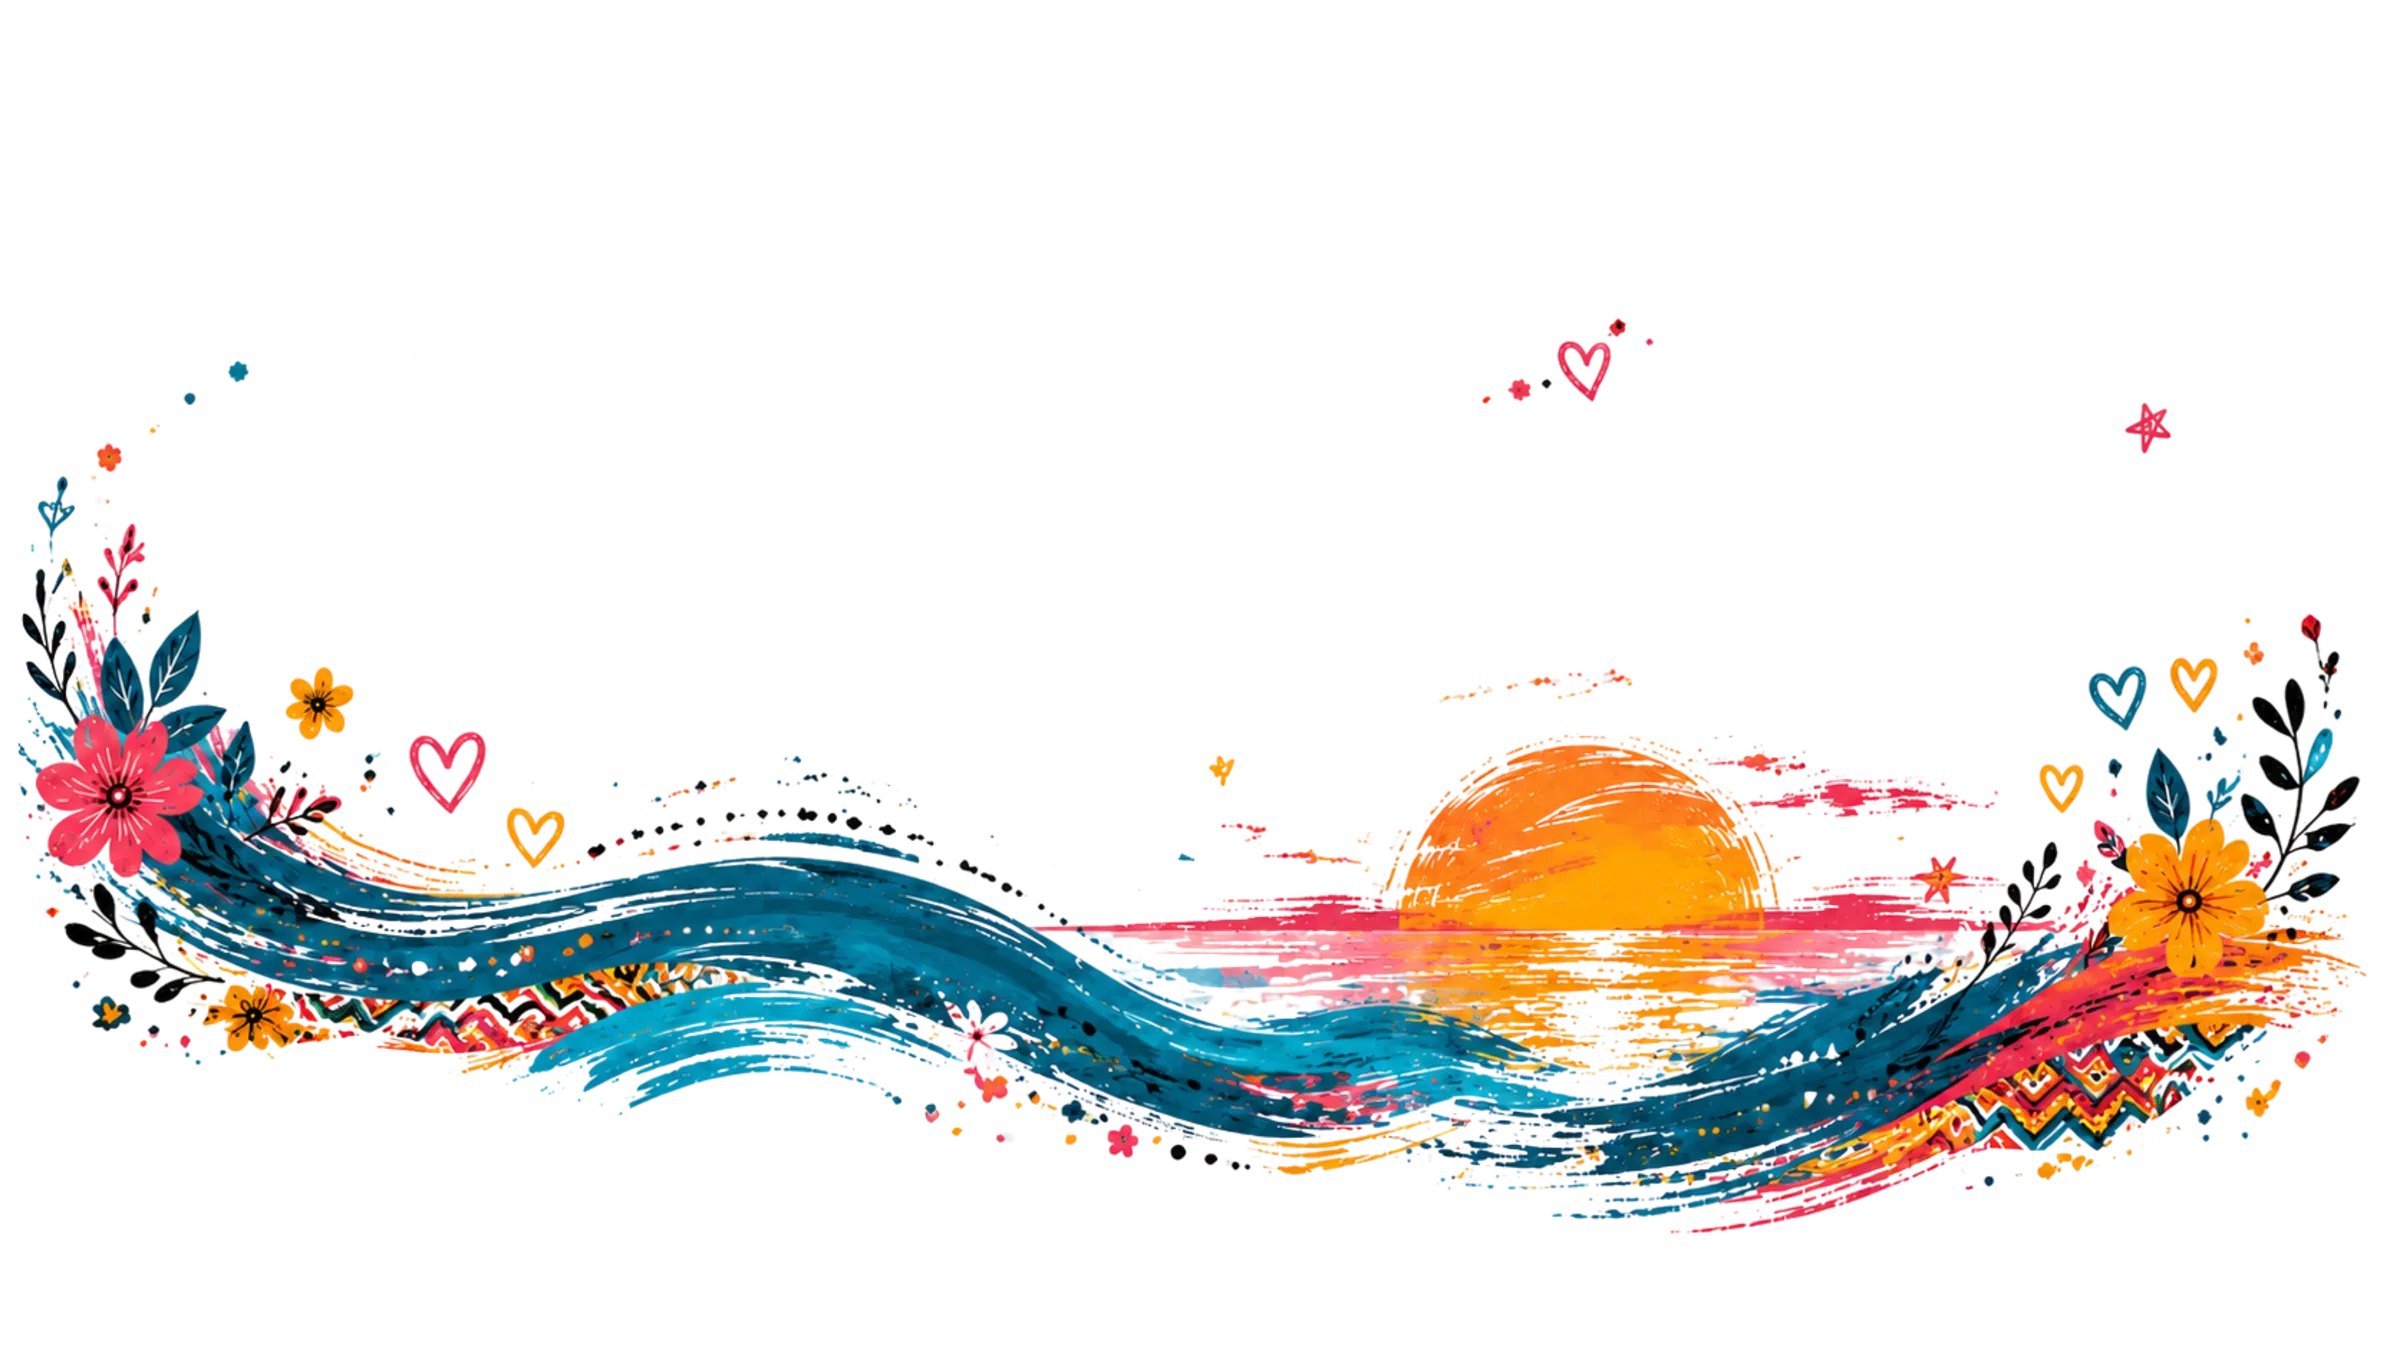
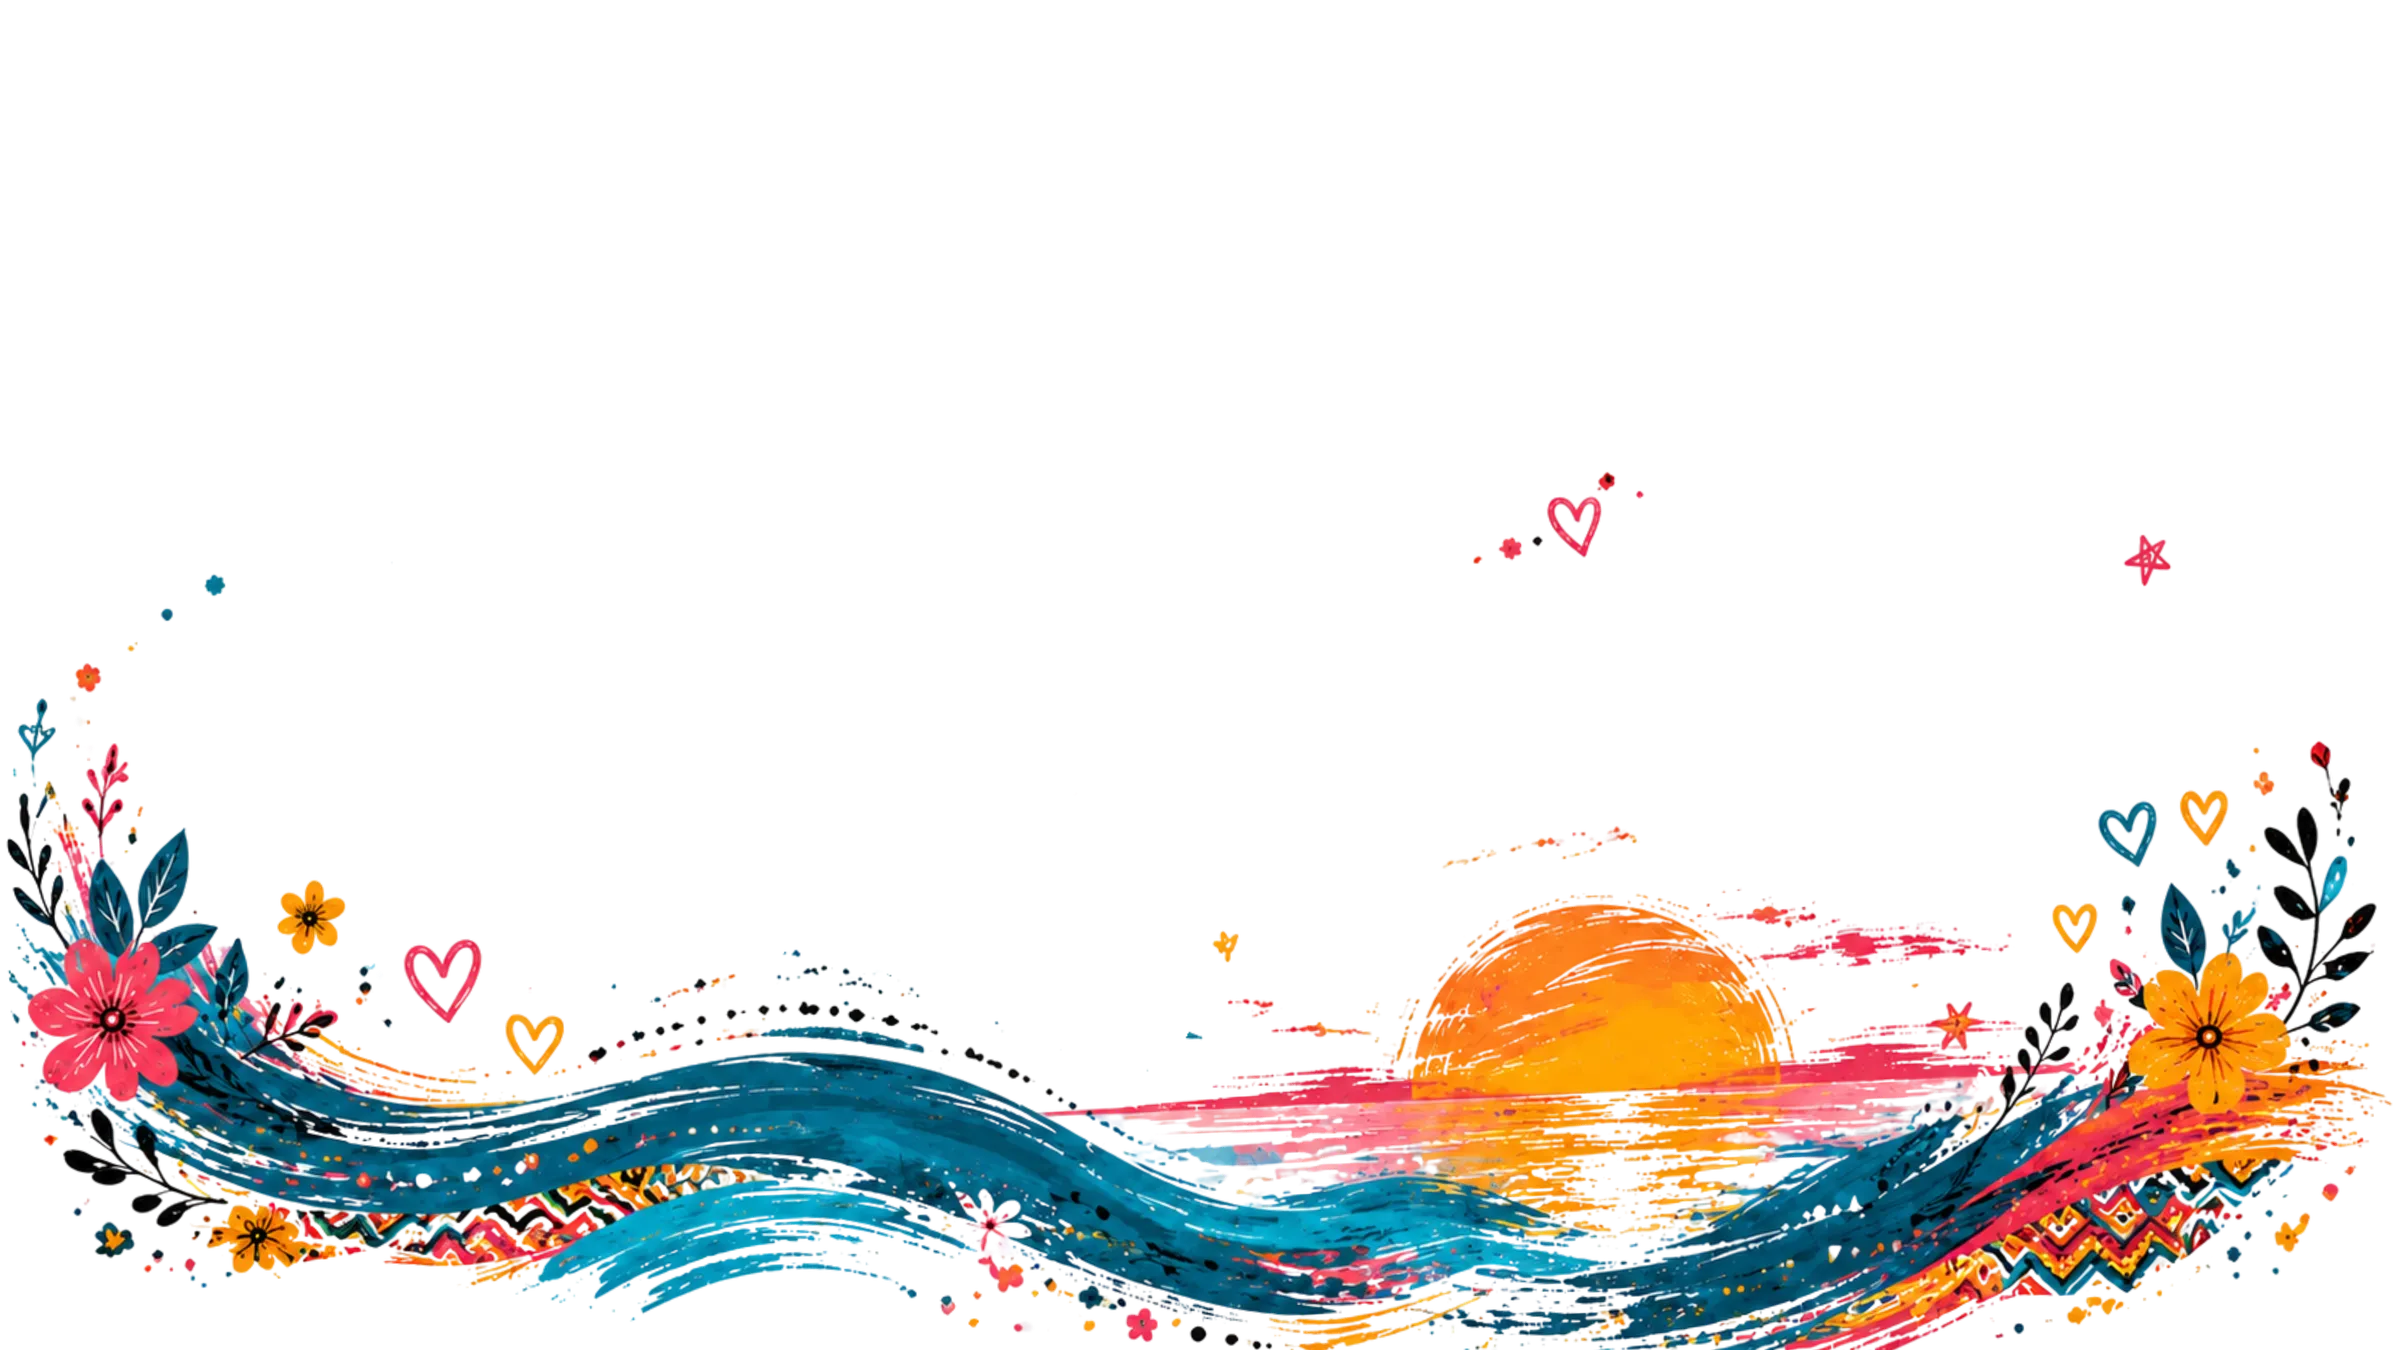
Implement intro video player and staggered background/text scrollytelling transition

diff --git a/src/components/LandingPageClient.js b/src/components/LandingPageClient.js
@@ -95,36 +95,85 @@ export default function LandingPageClient({ initialContent, initialProducts }) {
     return title;
   };
 
-  // Hitung nilai animasi berdasarkan scrollProgress (0 - 1)
-  const textOpacity = scrollProgress < 0.35 
+  // Hitung nilai animasi staggered berdasarkan scrollProgress (0 - 1)
+  
+  // 1. Intro Video Opacity (fades out from 0.1 to 0.22)
+  const videoOpacity = scrollProgress < 0.1 
+    ? 1 
+    : scrollProgress < 0.22 
+      ? 1 - (scrollProgress - 0.1) / 0.12 
+      : 0;
+
+  // 2. Sunset & Waves Transition (fades and slides up from 0.2 to 0.4)
+  const sunsetOpacity = scrollProgress < 0.2 
     ? 0 
-    : scrollProgress < 0.5 
-      ? (scrollProgress - 0.35) / 0.15 
-      : scrollProgress < 0.7 
+    : scrollProgress < 0.4 
+      ? (scrollProgress - 0.2) / 0.2 
+      : scrollProgress < 0.72 
         ? 1 
         : scrollProgress < 0.85 
-          ? 1 - (scrollProgress - 0.7) / 0.15 
+          ? 1 - (scrollProgress - 0.72) / 0.13 
           : 0;
 
-  const textScale = scrollProgress < 0.35 
-    ? 0.95 
-    : scrollProgress < 0.5 
-      ? 0.95 + ((scrollProgress - 0.35) / 0.15) * 0.05 
-      : scrollProgress < 0.7 
+  const sunsetTranslateY = scrollProgress < 0.2 
+    ? 120 
+    : scrollProgress < 0.4 
+      ? 120 - ((scrollProgress - 0.2) / 0.2) * 120 
+      : 0;
+
+  // 3. Birds Transition (fades and flies from left-bottom from 0.33 to 0.52)
+  const birdsOpacity = scrollProgress < 0.33 
+    ? 0 
+    : scrollProgress < 0.52 
+      ? (scrollProgress - 0.33) / 0.19 
+      : scrollProgress < 0.75 
         ? 1 
         : scrollProgress < 0.85 
-          ? 1 - ((scrollProgress - 0.7) / 0.15) * 0.05 
+          ? 1 - (scrollProgress - 0.75) / 0.1 
+          : 0;
+
+  const birdsTranslateX = scrollProgress < 0.33 
+    ? -200 
+    : scrollProgress < 0.52 
+      ? -200 - ((scrollProgress - 0.33) / 0.19) * -200 
+      : 0;
+
+  const birdsTranslateY = scrollProgress < 0.33 
+    ? 80 
+    : scrollProgress < 0.52 
+      ? 80 - ((scrollProgress - 0.33) / 0.19) * 80 
+      : 0;
+
+  // 4. Experience Art Text Card (fades and scales in last, from 0.46 to 0.63)
+  const textOpacity = scrollProgress < 0.46 
+    ? 0 
+    : scrollProgress < 0.63 
+      ? (scrollProgress - 0.46) / 0.17 
+      : scrollProgress < 0.76 
+        ? 1 
+        : scrollProgress < 0.86 
+          ? 1 - (scrollProgress - 0.76) / 0.1 
+          : 0;
+
+  const textScale = scrollProgress < 0.46 
+    ? 0.9 
+    : scrollProgress < 0.63 
+      ? 0.9 + ((scrollProgress - 0.46) / 0.17) * 0.1 
+      : scrollProgress < 0.76 
+        ? 1 
+        : scrollProgress < 0.86 
+          ? 1 - ((scrollProgress - 0.76) / 0.1) * 0.05 
           : 0.95;
 
-  const textTranslateY = scrollProgress < 0.35 
+  const textTranslateY = scrollProgress < 0.46 
     ? 40 
-    : scrollProgress < 0.5 
-      ? 40 - ((scrollProgress - 0.35) / 0.15) * 40 
-      : scrollProgress < 0.7 
+    : scrollProgress < 0.63 
+      ? 40 - ((scrollProgress - 0.46) / 0.17) * 40 
+      : scrollProgress < 0.76 
         ? 0 
-        : scrollProgress < 0.85 
-          ? -((scrollProgress - 0.7) / 0.15) * 40 
-          : -40;
+        : scrollProgress < 0.86 
+          ? -((scrollProgress - 0.76) / 0.1) * 30 
+          : -30;
 
   const showcaseOpacity = scrollProgress < 0.7 
     ? 0 
@@ -161,13 +210,13 @@ export default function LandingPageClient({ initialContent, initialProducts }) {
             </svg>
           </div>
 
-          {/* TAHAP 1 & 2: ZOOM BINGKAI LUKISAN & LOGO BERSENI */}
-          {scrollProgress < 0.6 && (
+          {/* TAHAP 1 & 2: ZOOM BINGKAI LUKISAN & VIDEO INTRO */}
+          {scrollProgress < 0.65 && (
             <div 
               className={styles.frameContainer}
               style={{
                 transform: `translate(-50%, -50%) scale(${1 + scrollProgress * 18})`,
-                opacity: scrollProgress < 0.2 ? 1 : Math.max(0, 1 - (scrollProgress - 0.2) / 0.35),
+                opacity: scrollProgress < 0.25 ? 1 : Math.max(0, 1 - (scrollProgress - 0.25) / 0.35),
                 pointerEvents: scrollProgress > 0.45 ? 'none' : 'auto',
               }}
             >
@@ -194,47 +243,52 @@ export default function LandingPageClient({ initialContent, initialProducts }) {
                   className={`${styles.frameCorner} ${styles.cornerBr}`}
                 />
                 
-                {/* Logo Berseni di Tengah Bingkai */}
+                {/* Video Intro Logo di Tengah Bingkai (Fades out smoothly) */}
                 <div 
                   className={styles.frameLogoOverlay}
                   style={{
-                    opacity: scrollProgress < 0.1 ? 1 : Math.max(0, 1 - (scrollProgress - 0.1) / 0.25),
+                    opacity: videoOpacity,
+                    pointerEvents: videoOpacity < 0.1 ? 'none' : 'auto',
                   }}
                 >
-                  <img 
-                    src="/logo.png" 
-                    alt="Berseni Logo" 
-                    className={styles.frameLogo}
+                  <video
+                    className={styles.introVideo}
+                    src="/video-intro-logo.mp4"
+                    autoPlay
+                    muted
+                    playsInline
+                    preload="auto"
                   />
                 </div>
               </div>
             </div>
           )}
 
-          {/* BACKGROUND UNTUK TAHAP 3 (HERO TEXT) */}
+          {/* BACKGROUND UNTUK TAHAP 3 (HERO TEXT) - STAGGERED ACCENTS */}
           <div 
             className={styles.heroStage3Bg}
             style={{
-              opacity: textOpacity,
               pointerEvents: 'none',
-              display: scrollProgress < 0.25 || scrollProgress > 0.9 ? 'none' : 'block',
+              display: scrollProgress < 0.15 || scrollProgress > 0.9 ? 'none' : 'block',
             }}
           >
-            {/* Latar Belakang Ombak Sunset */}
+            {/* Latar Belakang Ombak Sunset (Slides up and fades in) */}
             <div 
               className={styles.sunsetParallaxWrapper}
               style={{
-                transform: `scale(${1.02 + scrollProgress * 0.03}) translate(${scrollProgress * -8}px, ${scrollProgress * -4}px)`,
+                opacity: sunsetOpacity,
+                transform: `scale(${1.02 + scrollProgress * 0.03}) translate(${scrollProgress * -8}px, ${sunsetTranslateY - scrollProgress * 4}px)`,
               }}
             >
               <div className={styles.bgSunset} />
             </div>
 
-            {/* Overlay Burung-Burung Terbang */}
+            {/* Overlay Burung-Burung Terbang (Slides from left-bottom and fades in) */}
             <div 
               className={styles.birdsParallaxWrapper}
               style={{
-                transform: `scale(${1 + scrollProgress * 0.1}) translate(${scrollProgress * 20}px, ${scrollProgress * -12}px)`,
+                opacity: birdsOpacity,
+                transform: `scale(${1 + scrollProgress * 0.1}) translate(${birdsTranslateX + scrollProgress * 20}px, ${birdsTranslateY - scrollProgress * 12}px)`,
               }}
             >
               <div className={styles.bgBirds} />

diff --git a/src/styles/Landing.module.css b/src/styles/Landing.module.css
@@ -172,18 +172,19 @@
   top: 50%;
   left: 50%;
   transform: translate(-50%, -50%);
-  width: min(80vw, 450px); /* Large logo in the center of the screen */
-  aspect-ratio: 320/275;
+  width: min(85vw, 650px); /* Widescreen layout for intro video */
+  aspect-ratio: 16/9;
   display: flex;
   align-items: center;
   justify-content: center;
-  transition: opacity 0.1s ease-out;
+  transition: opacity 0.15s ease-out;
 }
 
-.frameLogo {
+.introVideo {
   width: 100%;
   height: 100%;
   object-fit: contain;
+  border-radius: 12px;
 }
 
 /* TAHAP 3 BACKGROUND & SEPARATE FLOATING ANIMATIONS */
@@ -214,7 +215,7 @@
   left: 0;
   width: 100%;
   height: 100%;
-  background: url('/pantai-sunset.webp') no-repeat center center;
+  background: url('/pantai-sunset.webp') no-repeat center bottom;
   background-size: cover;
   animation: swaySunset 16s ease-in-out infinite alternate;
   will-change: transform;
@@ -226,7 +227,7 @@
   left: 0;
   width: 100%;
   height: 100%;
-  background: url('/burung-burung.webp') no-repeat center center;
+  background: url('/burung-burung.webp') no-repeat center bottom;
   background-size: cover;
   animation: flyBirds 8s ease-in-out infinite alternate;
   will-change: transform;